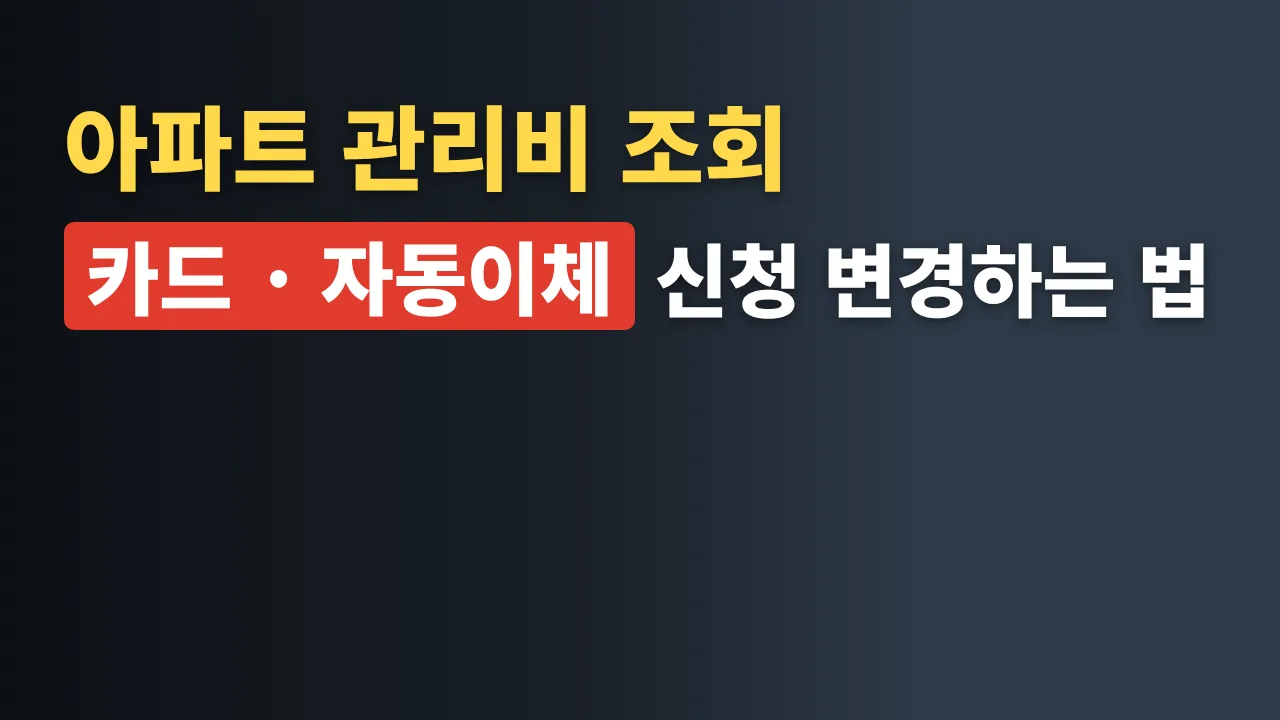
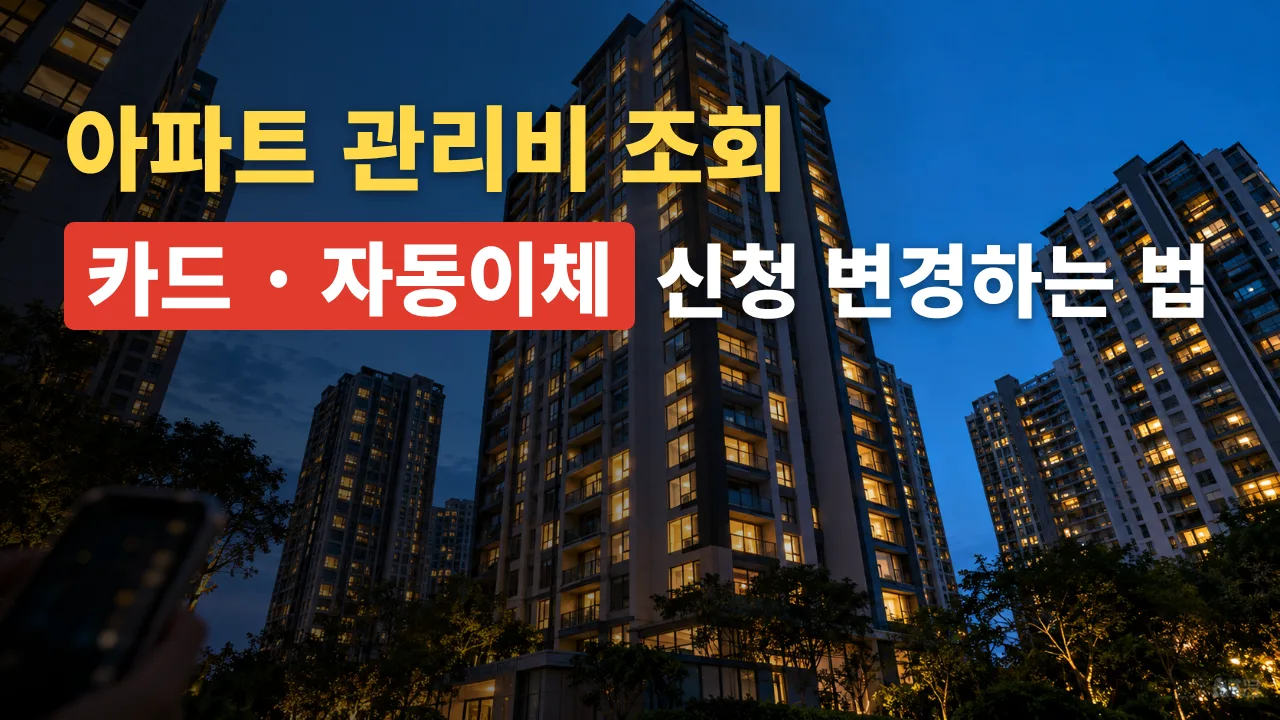
글 다듬기: 포장이사 견적 비교 방법·반포장이사·이사비용·견적 비교 사이트, 관리비 썸네일 교체
Claude-Session: https://claude.ai/code/session_01UeEtVFVWMgirAoUtyHaaoz

diff --git a/src/content/articles/living/moving-quote-comparison.md b/src/content/articles/living/moving-quote-comparison.md
@@ -1,14 +1,22 @@
 ---
-title: 포장이사 비용 견적 비교 추가요금 막는 견적서와 계약 해제 배상
-cardTitle: 포장이사 견적 비교
-seoTitle: 포장이사 비용 견적 비교와 추가요금
-description: 포장이사 견적서에서 확인할 항목, 계약금과 계약 해제 배상, 파손 대처를 공정위 표준약관 기준으로 정리했습니다.
+title: 포장이사 견적 비교 방법과 이사비용 추가요금 확인하는 법
+cardTitle: 포장이사 견적 비교 방법
+seoTitle: 포장이사 견적 비교 방법과 이사비용 추가요금
+description: 포장이사 견적 비교 방법, 반포장이사 차이, 이사비용 기준, 견적 비교 사이트 주의점, 계약금과 추가요금, 파손 보상까지 정리했어요.
 subcategory: moving
 contentType: guide
 contentMode: evergreen
 primaryQuery: 포장이사 견적 비교
 synonyms:
+  - 포장이사견적비교
   - 포장이사 비용
+  - 반포장이사
+  - 이사견적
+  - 이사 견적 비교
+  - 이사 견적 비교 사이트
+  - 이사비용
+  - 원룸 이사비용
+  - 이사업체
   - 포장이사 견적
   - 이사 견적서
   - 보관이사
@@ -17,12 +25,12 @@ synonyms:
   - 이삿짐 파손 보상
   - 이사 추가요금
   - 허가 이사업체
-summary: 포장이사 견적은 2~3곳에서 같은 조건으로 받아 견적서 항목을 하나씩 비교하세요. 공정위 이사화물 표준약관은 견적서보다 높은 금액을 계약서에 적거나 수고비를 따로 청구하지 않도록 하고, 계약금은 합계액의 10%를 청구할 수 있다고 정해요. 실제 계약에 어떤 약관이 적용되는지는 계약 전에 확인해야 해요.
-thumbnail: /images/thumbnails/moving-quote-comparison.svg
+summary: 포장이사 견적은 2곳이나 3곳에서 같은 조건으로 받아 견적서 항목을 하나씩 비교하세요. 공정위 이사화물 표준약관은 견적서보다 높은 금액을 계약서에 적거나 수고비를 따로 청구하지 않도록 하고, 계약금은 합계액의 10%를 청구할 수 있다고 정해요. 실제 계약에 어떤 약관이 적용되는지는 계약 전에 확인해야 해요.
+thumbnail: /images/thumbnails/moving-quote-comparison.webp
 ogImage: /images/og/moving-quote-comparison.png
 datePublished: 2026-10-20
-dateModified: 2026-10-20
-researchedAt: 2026-10-20
+dateModified: 2026-10-31
+researchedAt: 2026-10-31
 author: operator
 ymyl: medium
 topics: [moving, housing]
@@ -31,7 +39,7 @@ quickFacts:
   title: 한눈에 보기
   items:
     - label: 견적 비교
-      value: 2~3곳에서 같은 조건(짐 양, 날짜, 층수, 장비)으로 받아 항목별로 비교
+      value: 2곳이나 3곳에서 같은 조건(짐 양, 날짜, 층수, 장비)으로 받아 항목별로 비교
     - label: 계약금
       value: 표준약관상 운임 등 합계액의 10%까지 청구 가능
     - label: 잔금
@@ -43,23 +51,26 @@ quickFacts:
 checklist:
   title: 계약 전에 확인할 것
   items:
-    - 견적서에 업체 상호·사업자등록번호·대표자·주소·전화번호가 모두 있는지 확인합니다.
-    - 차량 종류·대수, 작업인원, 사다리차 같은 장비, 에어컨 분리·설치 같은 부대작업과 그 비용이 적혀 있는지 확인합니다.
-    - 계약서에 어떤 약관이 적용되는지, 계약 해제와 파손 배상 기준이 무엇인지 확인합니다.
-    - 허가증과 적재물배상보험(공제) 가입 증빙을 보여 달라고 하고, 계약서 상호와 같은지 확인합니다.
-    - 현금·귀금속·통장·인감 같은 귀중품은 직접 옮길 준비를 합니다.
+    - 견적서에 업체 상호·사업자등록번호·대표자·주소·전화번호가 모두 있는지 확인해요.
+    - 차량 종류·대수, 작업인원, 사다리차 같은 장비, 에어컨 분리·설치 같은 부대작업과 그 비용이 적혀 있는지 확인해요.
+    - 계약서에 어떤 약관이 적용되는지, 계약 해제와 파손 배상 기준이 무엇인지 확인해요.
+    - 허가증과 적재물배상보험(공제) 가입 증빙을 보여 달라고 하고, 계약서 상호와 같은지 확인해요.
+    - 현금·귀금속·통장·인감 같은 귀중품은 직접 옮길 준비를 해요.
 notes:
-  - 이 글의 계약금·배상 기준과 기한은 공정거래위원회 이사화물 표준약관(제10035호)과 소비자분쟁해결기준을 기준으로 합니다. 표준약관은 업체가 계약에 쓰도록 권장되는 기준이며, 모든 계약에 자동으로 적용되는 법률이 아닙니다. 실제 계약서의 약관을 꼭 확인하세요.
-  - 지역별·평수별 포장이사 가격은 공식 통계가 없습니다. 실제 견적은 짐의 양, 이동 거리, 층수와 장비, 이사 날짜에 따라 달라집니다.
+  - 이 글의 계약금·배상 기준과 기한은 공정거래위원회 이사화물 표준약관(제10035호)과 소비자분쟁해결기준을 기준으로 해요. 표준약관은 업체가 계약에 쓰도록 권장되는 기준이며, 모든 계약에 자동으로 적용되는 법률이 아니에요. 실제 계약서의 약관을 꼭 확인하세요.
+  - 지역별·평수별 포장이사 가격은 공식 통계가 없어요. 실제 견적은 짐의 양, 이동 거리, 층수와 장비, 이사 날짜에 따라 달라져요.
 faq:
   - question: 계약금은 꼭 10%를 내야 하나요?
-    answer: 아닙니다. 표준약관은 업체가 운임 등 합계액의 10%에 해당하는 금액을 계약금으로 청구할 수 있다고 정할 뿐입니다. 계약금을 얼마로 할지는 계약에서 정하고, 낸 금액은 계약서에 적어 두세요.
+    answer: 아니에요. 표준약관은 업체가 운임 등 합계액의 10%에 해당하는 금액을 계약금으로 청구할 수 있다고 정할 뿐이에요. 계약금을 얼마로 할지는 계약에서 정하고, 낸 금액은 계약서에 적어 두세요.
   - question: 이사 당일 업체가 취소하면 얼마를 받을 수 있나요?
-    answer: 표준약관 기준으로 업체가 인수일 당일에 해제를 알리면 이미 낸 계약금을 돌려받고, 별도로 계약금의 6배를 손해배상으로 받을 수 있습니다. 당일까지 아무 연락 없이 오지 않으면 계약금의 10배입니다. 실제 적용 기준은 계약서의 약관을 확인하세요.
+    answer: 표준약관 기준으로 업체가 인수일 당일에 해제를 알리면 이미 낸 계약금을 돌려받고, 별도로 계약금의 6배를 손해배상으로 받을 수 있어요. 당일까지 아무 연락 없이 오지 않으면 계약금의 10배예요. 실제 적용 기준은 계약서의 약관을 확인하세요.
   - question: 이사 후 며칠 지나서 파손을 발견했어요. 배상받을 수 있나요?
-    answer: 표준약관은 일부 파손·분실을 짐을 받은 날부터 30일 안에 업체에 알리도록 정합니다. 다만 상법은 바로 발견하기 어려운 훼손·일부 분실을 받은 날부터 2주 안에 통지하도록 정하고 있어, 더 짧은 기한이 문제 될 수 있습니다. 발견하는 대로 사진을 찍고 문자처럼 기록이 남는 방법으로, 가능하면 2주 안에 업체에 알리세요. 손해배상책임은 원칙적으로 짐을 받은 날부터 1년이 지나면 소멸합니다.
+    answer: 표준약관은 일부 파손·분실을 짐을 받은 날부터 30일 안에 업체에 알리도록 정해요. 다만 상법은 바로 발견하기 어려운 훼손·일부 분실을 받은 날부터 2주 안에 통지하도록 정하고 있어, 더 짧은 기한이 문제 될 수 있어요. 발견하는 대로 사진을 찍고 문자처럼 기록이 남는 방법으로, 가능하면 2주 안에 업체에 알리세요. 손해배상책임은 원칙적으로 짐을 받은 날부터 1년이 지나면 소멸해요.
   - question: 플랫폼에서 소개받은 업체와 분쟁이 생기면 플랫폼이 책임지나요?
-    answer: 플랫폼이 중개만 한다면 실제 계약 당사자는 이사업체입니다. 계약 전에 실제로 이사를 하는 업체의 상호·주소·사업자등록번호와 분쟁을 접수할 곳, 플랫폼의 분쟁 처리 기준을 확인해 두세요.
+    answer: 플랫폼이 중개만 한다면 실제 계약 당사자는 이사업체예요. 계약 전에 실제로 이사를 하는 업체의 상호·주소·사업자등록번호와 분쟁을 접수할 곳, 플랫폼의 분쟁 처리 기준을 확인해 두세요.
+changelog:
+  - date: 2026-10-31
+    summary: 제목을 포장이사 견적 비교 방법으로 바꾸고, 반포장이사 차이, 이사비용 기준, 견적 비교 사이트 이용 시 주의점과 한국소비자원 보도자료 캡처를 추가했어요.
 related: [/living/move-in-report/, /living/lease-fixed-date/, /living/rent-contract-report/, /business/cash-receipt/]
 sourceIds: [local:ftc-moving-terms, local:law-commercial-146, local:easylaw-moving-company, local:easylaw-moving-dispute, local:law-cargo-2-24, local:law-cargo-rule-38-3, local:law-cargo-decree-9-7, local:molit-forwarding-qa, local:kca-moving-platform-2024]
 localSources:
@@ -116,26 +127,35 @@ localSources:
     publisher: 한국소비자원
     url: https://www.kca.go.kr/home/sub.do?menukey=4002&mode=view&no=1003750429
     level: S1
-    checkedAt: 2026-10-20
+    checkedAt: 2026-10-31
 ---
 
-## 견적을 받기 전에 정할 것
+이사 날짜는 다가오는데 업체마다 견적이 제각각이라 어디를 골라야 할지 막막하죠. 같은 조건으로 견적을 받아 항목별로 비교하면 당일 추가요금도 줄일 수 있어요. 이사 방법 고르기부터 견적 비교, 계약금, 파손 보상까지 순서대로 정리했어요.
 
-이사 방법은 크게 세 가지입니다. 견적을 받을 때 어떤 방법인지 먼저 정해야 업체끼리 같은 조건으로 비교할 수 있습니다.
+## 포장이사와 반포장이사 차이
+
+이사 방법은 크게 세 가지이고, 업체들이 흔히 쓰는 반포장이사는 일반이사와 포장이사의 중간이에요. 견적을 받을 때 어떤 방법인지 먼저 정해야 업체끼리 같은 조건으로 비교할 수 있어요.
 
 | 이사 방법 | 업체가 하는 일 |
 |---|---|
 | 일반이사 | 운송만. 포장과 정리는 고객이 직접 |
+| 반포장이사 | 업체가 포장과 운송을 하고, 짐 정리는 고객이 직접(업체마다 범위가 달라 견적 때 확인) |
 | 포장이사 | 포장, 운송, 정리를 모두 |
 | 보관이사 | 일반이사나 포장이사를 하면서 짐을 일정 기간 보관한 뒤 인도 |
 
-이사비용은 운송거리, 짐의 양, 작업조건(층수, 사다리차, 차량 진입), 부대서비스, 이사 날짜에 따라 정해집니다. 정확한 금액은 업체의 방문견적으로 확인하는 것이 가장 좋습니다.
+일반이사, 포장이사, 보관이사는 공정위 이사화물 표준약관에 나오는 구분이에요. 반포장이사는 약관에 따로 정한 말이 아니어서, 어디까지 해 주는지 견적서에 적어 달라고 하세요.
 
-한국소비자원이 2024년 발표한 포장이사 플랫폼 이용자 600명 대상 조사에서는 응답자의 **평균 이사비용이 169만원이었습니다.** 실제 견적은 짐의 양, 이동 거리, 작업 조건 등에 따라 달라지므로 내 이사의 기준 가격으로 보지는 마세요.
+## 포장이사 비용과 이사비용 기준
 
-## 견적서에서 확인할 항목
+이사비용은 운송거리, 짐의 양, 작업조건(층수, 사다리차, 차량 진입), 부대서비스, 이사 날짜에 따라 정해져요. 정확한 금액은 업체의 방문견적으로 확인하는 것이 가장 좋아요.
 
-공정위 이사화물 표준약관은 업체가 견적서에 다음 내용을 적도록 정합니다. 업체 2~3곳에서 견적을 받았다면 아래 항목을 하나씩 나란히 놓고 비교하세요.
+한국소비자원이 2024년 발표한 포장이사 플랫폼 이용자 600명 대상 조사에서는 응답자의 **평균 이사비용이 169만원이었어요.** 실제 견적은 짐의 양, 이동 거리, 작업 조건 등에 따라 달라지므로 내 이사의 기준 가격으로 보지는 마세요.
+
+원룸 이사비용도 지역별·평수별 공식 통계는 없어요. 짐이 적다면 일반이사나 반포장이사로도 견적을 받아 포장이사와 비교해 보세요.
+
+## 포장이사 견적 비교 방법
+
+공정위 이사화물 표준약관은 업체가 견적서에 다음 내용을 적도록 정해요. 업체 2곳이나 3곳에서 견적을 받았다면 아래 항목을 하나씩 나란히 놓고 비교하세요.
 
 <div class="table-cards">
 
@@ -151,29 +171,44 @@ localSources:
 
 </div>
 
-이사화물 운송을 주선하는 업체(운송주선사업자)는 화물자동차 운수사업법 시행규칙에 따라 운송을 시작하기 전에 이런 내용이 담긴 견적서나 계약서를 발급해야 합니다. 전자문서도 됩니다. 고객이 원하지 않는 경우만 예외입니다.
+이사화물 운송을 주선하는 업체(운송주선사업자)는 화물자동차 운수사업법 시행규칙에 따라 운송을 시작하기 전에 이런 내용이 담긴 견적서나 계약서를 발급해야 해요. 전자문서도 돼요. 고객이 원하지 않는 경우만 예외예요.
 
-가격만 보고 고르기보다 **빠진 항목이 없는 견적서를** 고르는 것이 추가요금을 막는 방법입니다. 특히 사다리차, 에어컨, 보관료처럼 따로 청구되기 쉬운 항목이 견적에 들어 있는지 확인하세요.
+가격만 보고 고르기보다 **빠진 항목이 없는 견적서를** 고르는 것이 추가요금을 막는 방법이에요. 특히 사다리차, 에어컨, 보관료처럼 따로 청구되기 쉬운 항목이 견적에 들어 있는지 확인하세요.
 
-## 추가요금을 막으려면
+## 이사 견적 비교 사이트 이용할 때
 
-표준약관은 추가요금을 다음처럼 제한합니다.
+견적 비교 사이트(플랫폼)는 한 번에 여러 업체 견적을 받을 수 있어 편해요. 다만 플랫폼이 중개만 하는 경우 실제 계약 당사자는 이사업체예요.
 
-- 업체는 견적서에 적은 금액보다 많은 금액을 계약서에 적지 않습니다. 고객이 요청해 짐 내역이나 작업이 바뀌었고 그 초과금액을 미리 알린 경우만 예외입니다.
-- 업체는 계약서에 적은 금액보다 많이 청구하지 않습니다. 고객 사정으로 작업이 바뀌었고 초과금액을 그때 미리 알린 경우만 예외입니다.
-- 업체는 **수고비 등 어떤 명목의 금액도** 추가로 청구하지 않습니다.
+<figure class="shot">
+  <a href="/images/articles/moving-platform-kca-2024.webp" class="shot__zoom"><img src="/images/articles/moving-platform-kca-2024.webp" width="594" height="977" alt="한국소비자원 2024년 11월 12일 보도자료 첫 쪽. 1번 제목 포장이사 플랫폼 업체정보·분쟁해결 절차 등 고지 미흡, 플랫폼을 통해 포장이사를 진행한 10명 중 3명은 피해 경험, 2번 플랫폼 사업자의 신원정보와 법적지위 표시 미흡 부분이 빨간 상자로 표시돼 있어요." loading="lazy" decoding="async"></a>
+  <figcaption>한국소비자원 보도자료 ‘포장이사 플랫폼, 업체정보·분쟁해결 절차 등 고지 미흡’(2024년 11월 12일) 첫 쪽이에요. (2026년 10월 31일 확인)</figcaption>
+</figure>
 
-한국소비자원의 같은 2024년 설문에서 응답자의 34.5%가 추가요금을 낸 적이 있고, 평균 금액은 28만원이었습니다. 소비자원이 소개한 피해 사례에는 약정하지 않은 사다리차 비용과 작업자 술값을 현장에서 요구받은 경우도 있었습니다.
+한국소비자원이 2024년 포장이사 플랫폼 13곳을 조사한 결과, 견적 요청 때 이사업체의 상세주소를 알려 준 플랫폼이 없었고, 허가증과 다른 상호를 보여 준 사례도 있었어요. 플랫폼으로 포장이사를 한 이용자 10명 중 3명은 피해를 겪었다고 답했어요.
+
+- 실제로 이사를 하는 업체의 상호, 주소, 사업자등록번호를 확인해요.
+- 분쟁이 생기면 어디에 접수하는지, 플랫폼의 분쟁 처리 기준이 무엇인지 확인해요.
+- 사이트에서 받은 견적도 위 견적서 항목이 모두 들어 있는지 똑같이 비교해요.
+
+## 이사 추가요금 막는 법
+
+표준약관은 추가요금을 다음처럼 제한해요.
+
+- 업체는 견적서에 적은 금액보다 많은 금액을 계약서에 적지 않아요. 고객이 요청해 짐 내역이나 작업이 바뀌었고 그 초과금액을 미리 알린 경우만 예외예요.
+- 업체는 계약서에 적은 금액보다 많이 청구하지 않아요. 고객 사정으로 작업이 바뀌었고 초과금액을 그때 미리 알린 경우만 예외예요.
+- 업체는 **수고비 등 어떤 명목의 금액도** 추가로 청구하지 않아요.
+
+한국소비자원의 같은 2024년 설문에서 응답자의 34.5%가 추가요금을 낸 적이 있고, 평균 금액은 28만원이었어요. 소비자원이 소개한 피해 사례에는 약정하지 않은 사다리차 비용과 작업자 술값을 현장에서 요구받은 경우도 있었어요.
 
 현장에서 추가요금을 요구받으면 견적서·계약서에 있는 항목인지 먼저 확인하세요. 내가 작업을 바꿔 달라고 요청한 것이 아니라면 그 자리에서 바로 내지 말고, 문자 등 기록이 남는 방법으로 근거를 요청하세요.
 
-## 계약금과 계약 해제 배상
+## 이사 계약금과 계약 해제 배상
 
-아래 금액과 기한은 공정위 이사화물 표준약관을 기준으로 합니다. 실제 적용 여부는 계약서의 약관과 관련 법령에 따라 달라질 수 있으므로 계약 전에 확인하세요.
+아래 금액과 기한은 공정위 이사화물 표준약관을 기준으로 해요. 실제 적용 여부는 계약서의 약관과 관련 법령에 따라 달라질 수 있으므로 계약 전에 확인하세요.
 
-**계약금**: 표준약관은 업체가 계약서를 줄 때 운임 등 합계액의 10%에 해당하는 금액을 계약금으로 청구할 수 있다고 정합니다. 10%를 반드시 내야 한다는 뜻은 아닙니다. 잔금은 포장이사의 경우 짐 정리를 모두 확인한 뒤 냅니다.
+**계약금**: 표준약관은 업체가 계약서를 줄 때 운임 등 합계액의 10%에 해당하는 금액을 계약금으로 청구할 수 있다고 정해요. 10%를 반드시 내야 한다는 뜻은 아니에요. 잔금은 포장이사의 경우 짐 정리를 모두 확인한 뒤 내요.
 
-**업체 사정으로 해제할 때는** 이미 낸 계약금을 돌려받고, 그와 별도로 다음 손해배상을 받습니다.
+**업체 사정으로 해제할 때는** 이미 낸 계약금을 돌려받고, 그와 별도로 다음 손해배상을 받아요.
 
 <div class="table-cards">
 
@@ -186,7 +221,7 @@ localSources:
 
 </div>
 
-**내 사정으로 해제할 때는** 다음 금액을 업체에 배상합니다. 이미 낸 계약금이 있으면 그 금액을 뺄 수 있습니다.
+**내 사정으로 해제할 때는** 다음 금액을 업체에 배상해요. 이미 낸 계약금이 있으면 그 금액을 뺄 수 있어요.
 
 <div class="table-cards">
 
@@ -197,27 +232,27 @@ localSources:
 
 </div>
 
-소비자원에 접수된 사례 중에는 총 대금 155만원 중 계약금으로 25만원을 냈다가 이사 16일 전에 해제하면서, 총 대금의 10%를 넘는 9만5천원을 돌려 달라고 했지만 거절당한 경우가 있었습니다. 계약금을 낼 때 금액과 해제 기준을 계약서에 적어 두세요.
+소비자원에 접수된 사례 중에는 총 대금 155만원 중 계약금으로 25만원을 냈다가 이사 16일 전에 해제하면서, 총 대금의 10%를 넘는 9만5천원을 돌려 달라고 했지만 거절당한 경우가 있었어요. 계약금을 낼 때 금액과 해제 기준을 계약서에 적어 두세요.
 
 ## 이사 당일 확인할 것
 
-**짐을 싣는 시간이 늦어질 때**: 업체 사정으로 약속한 인수 시간보다 2시간 이상 늦으면, 표준약관상 고객은 계약을 해제하고 계약금 반환과 계약금의 6배 배상을 청구할 수 있습니다. 공정위 소비자분쟁해결기준은 같은 경우를 '계약해제, 계약금 반환, 계약금의 2배 배상'으로 정하고 있어, 실제 적용 기준은 계약서에서 확인해야 합니다.
+**짐을 싣는 시간이 늦어질 때**: 업체 사정으로 약속한 인수 시간보다 2시간 이상 늦으면, 표준약관상 고객은 계약을 해제하고 계약금 반환과 계약금의 6배 배상을 청구할 수 있어요. 공정위 소비자분쟁해결기준은 같은 경우를 '계약해제, 계약금 반환, 계약금의 2배 배상'으로 정하고 있어, 실제 적용 기준은 계약서에서 확인해야 해요.
 
-**짐이 늦게 도착할 때**: 짐이 약속한 인도 시간보다 늦게 도착하면(파손·분실이 없는 경우) 표준약관상 '늦은 시간 수 × 계약금 × 1/2'을 배상받습니다. 1시간 미만은 세지 않고, 계약금의 10배가 한도입니다. 짐을 싣는 시간(인수)이 늦는 것과 짐이 도착하는 시간(인도)이 늦는 것은 기준이 다릅니다.
+**짐이 늦게 도착할 때**: 짐이 약속한 인도 시간보다 늦게 도착하면(파손·분실이 없는 경우) 표준약관상 '늦은 시간 수 × 계약금 × 1/2'을 배상받아요. 1시간 미만은 세지 않고, 계약금의 10배가 한도예요. 짐을 싣는 시간(인수)이 늦는 것과 짐이 도착하는 시간(인도)이 늦는 것은 기준이 달라요.
 
-**내가 늦을 때**: 반대로 내 사정으로 짐을 싣는 시간이 늦어지면 1시간마다 계약금의 절반을 배상해야 합니다(계약금의 2배 한도). 2시간 이상 늦으면 업체가 계약을 해제하고 계약금의 2배를 청구할 수 있습니다.
+**내가 늦을 때**: 반대로 내 사정으로 짐을 싣는 시간이 늦어지면 1시간마다 계약금의 절반을 배상해야 해요(계약금의 2배 한도). 2시간 이상 늦으면 업체가 계약을 해제하고 계약금의 2배를 청구할 수 있어요.
 
-그 밖에 당일 챙길 것은 다음과 같습니다.
+그 밖에 당일 챙길 것은 다음과 같아요.
 
-- 현금, 귀금속, 통장, 신용카드, 인감 같은 귀중품은 직접 옮기세요. 표준약관상 업체가 운송을 거절할 수 있는 물건입니다. 위험물, 동식물, 미술품·골동품도 마찬가지이며 특별 조건을 합의하면 맡길 수 있습니다.
+- 현금, 귀금속, 통장, 신용카드, 인감 같은 귀중품은 직접 옮기세요. 표준약관상 업체가 운송을 거절할 수 있는 물건이에요. 위험물, 동식물, 미술품·골동품도 마찬가지이며 특별 조건을 합의하면 맡길 수 있어요.
 - 작업 전에 이미 흠집이 있는 가구·가전을 작업자와 함께 확인하고 사진을 찍어 두세요.
 - 잔금은 포장이사의 경우 짐 정리가 모두 끝난 것을 확인한 뒤 내세요.
 
-## 파손·분실이 생겼을 때
+## 이삿짐 파손 분실 보상
 
-표준약관상 업체는 포장, 운송, 보관, 정리 과정에서 주의를 게을리하지 않았다는 것을 증명하지 못하면 파손·분실을 배상해야 합니다. 수선할 수 있으면 수선해 주고, 수선할 수 없거나 분실된 경우에는 물건의 가액을 기준으로 손해액을 배상합니다.
+표준약관상 업체는 포장, 운송, 보관, 정리 과정에서 주의를 게을리하지 않았다는 것을 증명하지 못하면 파손·분실을 배상해야 해요. 수선할 수 있으면 수선해 주고, 수선할 수 없거나 분실된 경우에는 물건의 가액을 기준으로 손해액을 배상해요.
 
-**기한은 경우마다 다릅니다.**
+**기한은 경우마다 달라요.**
 
 | 상황 | 표준약관 기준 |
 |---|---|
@@ -225,39 +260,39 @@ localSources:
 | 손해배상책임 소멸 | 원칙적으로 짐을 받은 날부터 1년 |
 | 업체가 파손·분실을 알면서 숨긴 경우 | 짐을 받은 날부터 5년간 책임 유지 |
 
-상법 제146조는 다른 기준을 둡니다. 짐을 이의 없이 받고 운임을 내면 운송인의 책임이 소멸하는 것이 원칙이고, 바로 발견할 수 없는 훼손이나 일부 분실은 **받은 날부터 2주 안에** 통지를 보내야 예외가 인정됩니다(업체가 알면서 숨긴 경우는 제외). 계약서의 약관과 상법 중 어느 기준이 적용될지는 계약과 상황에 따라 판단이 달라질 수 있습니다. 그러니 30일을 믿고 미루지 말고, 짐을 받을 때 이상이 있으면 그 자리에서 알리고, 나중에 발견한 피해도 가능하면 받은 날부터 2주 안에 통지하세요.
+상법 제146조는 다른 기준을 둬요. 짐을 이의 없이 받고 운임을 내면 운송인의 책임이 소멸하는 것이 원칙이고, 바로 발견할 수 없는 훼손이나 일부 분실은 **받은 날부터 2주 안에** 통지를 보내야 예외가 인정돼요(업체가 알면서 숨긴 경우는 제외).
+
+계약서의 약관과 상법 중 어느 기준이 적용될지는 계약과 상황에 따라 판단이 달라질 수 있어요. 그러니 30일을 믿고 미루지 말고, 짐을 받을 때 이상이 있으면 그 자리에서 알리고, 나중에 발견한 피해도 가능하면 받은 날부터 2주 안에 통지하세요.
 
 피해를 발견하면 다음 순서로 대응하세요.
 
-1. 파손된 물건과 포장 상태를 바로 사진·영상으로 남깁니다.
-2. 문자, 메신저처럼 기록이 남는 방법으로 바로 업체에 알립니다. 늦어도 짐을 받은 날부터 2주 안에 알리는 것이 안전합니다.
-3. 사고확인서와 수리견적서를 받아 둡니다. 운송주선사업자는 시행규칙에 따라 멸실·훼손·연착에 대한 사고확인서를 발급해야 합니다(업체가 고의나 과실이 없음을 증명하지 못한 경우).
-4. 합의가 안 되면 1372 소비자상담센터에 상담하고, 한국소비자원에 피해구제를 신청할 수 있습니다.
+1. 파손된 물건과 포장 상태를 바로 사진·영상으로 남겨요.
+2. 문자, 메신저처럼 기록이 남는 방법으로 바로 업체에 알려요. 늦어도 짐을 받은 날부터 2주 안에 알리는 것이 안전해요.
+3. 사고확인서와 수리견적서를 받아 둬요. 운송주선사업자는 시행규칙에 따라 멸실·훼손·연착에 대한 사고확인서를 발급해야 해요(업체가 고의나 과실이 없음을 증명하지 못한 경우).
+4. 합의가 안 되면 1372 소비자상담센터에 상담하고, 한국소비자원에 피해구제를 신청할 수 있어요.
 
-한국소비자원에 따르면 2021~2023년 포장이사 피해구제 신청은 1,493건이었고, 그 사유는 **훼손·파손이 69.9%로** 가장 많았습니다. 계약위반 10.2%, 분실 6.8%, 부당요금 3.5%가 뒤를 이었고, 합의로 해결된 경우는 37.7%였습니다. 미합의 이유로는 업체 주소 불명·연락 회피, 입증자료 부족 등이 꼽혔습니다.
+한국소비자원에 따르면 2021년부터 2023년까지 포장이사 피해구제 신청은 1,493건이었고, 그 사유는 **훼손·파손이 69.9%로** 가장 많았어요. 계약위반 10.2%, 분실 6.8%, 부당요금 3.5%가 뒤를 이었고, 합의로 해결된 경우는 37.7%였어요. 미합의 이유로는 업체 주소 불명·연락 회피, 입증자료 부족 등이 꼽혔어요.
 
-## 업체 확인하기
+## 이사업체 고르는 법
 
-이삿짐을 운송하는 일은 화물자동차 운수사업법에 따라 허가를 받아야 하는 사업입니다. 다만 이사업체마다 사업 형태가 다릅니다. 직접 화물차로 운송하는 사업자가 있고, 다른 운송사업자의 차량을 이용해 이사화물 운송을 주선하는 사업자(이삿짐센터 등)가 있습니다.
+이삿짐을 운송하는 일은 화물자동차 운수사업법에 따라 허가를 받아야 하는 사업이에요. 다만 이사업체마다 사업 형태가 달라요. 직접 화물차로 운송하는 사업자가 있고, 다른 운송사업자의 차량을 이용해 이사화물 운송을 주선하는 사업자(이삿짐센터 등)가 있어요.
 
 - **계약 상대가 누구인지**: 계약을 맡는 업체가 직접 운송하는지, 운송을 주선하는지 확인하세요.
-- **허가증**: 견적이나 계약 때 허가증 사본을 보여 달라고 할 수 있습니다. 허가받은 상호와 견적서·계약서 상호가 같은지 확인하세요. 운송주선사업자는 허가증에 적힌 상호만 써야 합니다.
-- **적재물배상보험(공제)**: 사업 형태에 맞는 보험이나 공제에 가입했는지 증빙을 확인하세요. 이사화물 운송만 주선하는 운송주선사업자는 사고 건당 500만원 이상을 보장하는 보험에 가입해야 합니다. 이 금액은 보험 가입 기준이며, 실제 배상액의 한도가 아닙니다.
-- **조회·문의**: 법제처 생활법령정보는 허가이사종합정보(www.허가이사.com)에서 검색하거나, 해당 지역 화물운송주선협회 또는 시·군·구청 교통관할 부서에 문의해 허가 여부를 확인하라고 안내합니다.
+- **허가증**: 견적이나 계약 때 허가증 사본을 보여 달라고 할 수 있어요. 허가받은 상호와 견적서·계약서 상호가 같은지 확인하세요. 운송주선사업자는 허가증에 적힌 상호만 써야 해요.
+- **적재물배상보험(공제)**: 사업 형태에 맞는 보험이나 공제에 가입했는지 증빙을 확인하세요. 이사화물 운송만 주선하는 운송주선사업자는 사고 건당 500만원 이상을 보장하는 보험에 가입해야 해요. 이 금액은 보험 가입 기준이며, 실제 배상액의 한도가 아니에요.
+- **조회·문의**: 법제처 생활법령정보는 허가이사종합정보(www.허가이사.com)에서 검색하거나, 해당 지역 화물운송주선협회 또는 시·군·구청 교통관할 부서에 문의해 허가 여부를 확인하라고 안내해요.
 
-**플랫폼으로 견적을 받는다면**: 견적 비교 플랫폼이 중개만 하는 경우 실제 계약 당사자는 이사업체입니다. 한국소비자원의 2024년 조사에서는 견적 요청 때 이사업체의 상세주소를 알려 준 플랫폼이 없었고, 허가증과 다른 상호를 보여 준 사례도 있었습니다. 계약 전에 실제로 이사를 하는 업체의 상호, 주소, 사업자등록번호와 분쟁을 접수할 곳을 확인하세요.
+## 보관이사 견적 확인
 
-## 보관이사라면
-
-새집 입주 날짜가 맞지 않아 짐을 잠시 맡겨야 하면 보관이사를 합니다. 표준약관상 보관이사 견적서에는 **보관장소, 보관기간, 보관료가** 들어가야 합니다. 생활법령정보는 보관이사의 경우 별도의 이사화물 보관계약서를 작성하라고 권합니다.
+새집 입주 날짜가 맞지 않아 짐을 잠시 맡겨야 하면 보관이사를 해요. 표준약관상 보관이사 견적서에는 **보관장소, 보관기간, 보관료가** 들어가야 해요. 생활법령정보는 보관이사의 경우 별도의 이사화물 보관계약서를 작성하라고 권해요.
 
 - 보관장소가 어디인지, 습기·온도 관리가 되는 곳인지 확인하세요.
 - 짐을 맡길 때와 찾을 때 각각 운송비가 따로 붙는지, 보관 기간이 늘어나면 보관료가 어떻게 계산되는지 확인하세요.
-- 보관료도 다른 약정이 없으면 짐을 모두 인도받거나 정리를 확인한 뒤 냅니다.
-- 약정한 보관기간이 지난 뒤에도 업체 책임이 아닌 사유로 짐을 찾아가지 않으면, 업체는 표준약관에 따라 일정 절차를 거쳐 짐을 공탁하거나 경매할 수 있습니다. 보관기간이 바뀌면 업체와 미리 연락해 계약을 고쳐 두세요.
+- 보관료도 다른 약정이 없으면 짐을 모두 인도받거나 정리를 확인한 뒤 내요.
+- 약정한 보관기간이 지난 뒤에도 업체 책임이 아닌 사유로 짐을 찾아가지 않으면, 업체는 표준약관에 따라 일정 절차를 거쳐 짐을 공탁하거나 경매할 수 있어요. 보관기간이 바뀌면 업체와 미리 연락해 계약을 고쳐 두세요.
 
-## 현금으로 낸다면
+## 이사비용 현금 결제와 영수증
 
-소비자원 설문에서 이사비용을 현금으로 낸 비율은 69.2%였지만, 그중 현금영수증을 받은 비율은 34.5%에 그쳤습니다. 현금영수증과 계좌이체 기록은 나중에 분쟁이 생겼을 때 이용 사실과 금액을 증명하는 자료가 됩니다. 현금영수증 발급 기준은 [현금영수증 의무발행업종](/business/cash-receipt/)에서 확인하세요.
+소비자원 설문에서 이사비용을 현금으로 낸 비율은 69.2%였지만, 그중 현금영수증을 받은 비율은 34.5%에 그쳤어요. 현금영수증과 계좌이체 기록은 나중에 분쟁이 생겼을 때 이용 사실과 금액을 증명하는 자료가 돼요. 현금영수증 발급 기준은 [현금영수증 의무발행업종](/business/cash-receipt/)에서 확인하세요.
 
-이사를 마쳤다면 새 주소로 옮긴 날부터 14일 안에 [전입신고](/living/move-in-report/)를 해야 합니다. 세입자라면 [확정일자](/living/lease-fixed-date/)와 [전월세 신고](/living/rent-contract-report/)도 함께 챙기세요.
+이사를 마쳤다면 새 주소로 옮긴 날부터 14일 안에 [전입신고](/living/move-in-report/)를 해야 해요. 세입자라면 [확정일자](/living/lease-fixed-date/)와 [주택 임대차 신고](/living/rent-contract-report/)도 함께 챙기세요.
